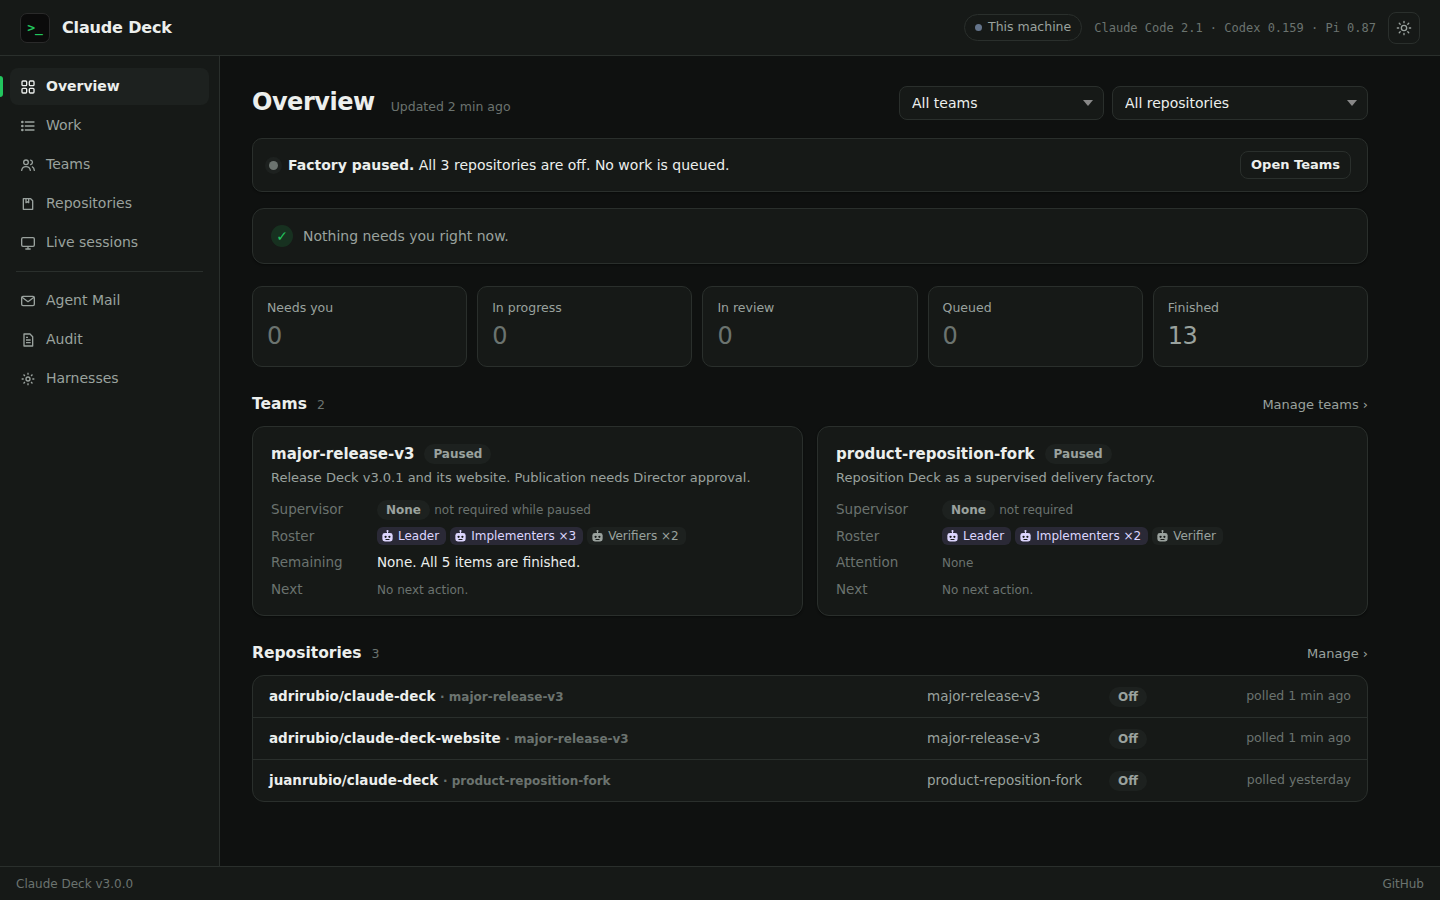
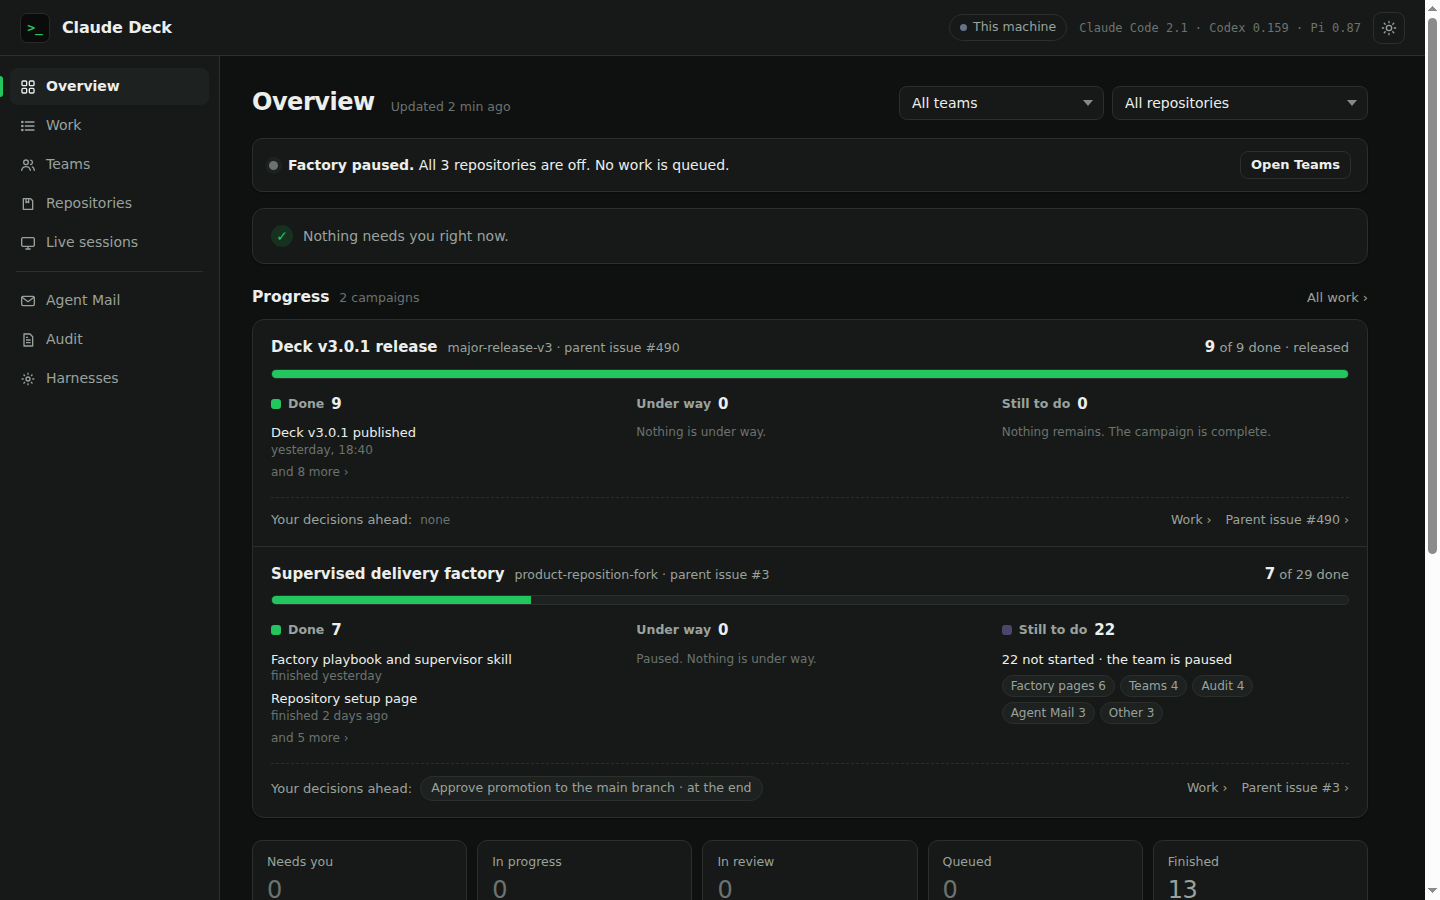
docs(design): add the Overview progress card to the v3.1 design reference
The Director approved the card on 2026-10-12: for each campaign, what has
happened, what is happening and what still needs to happen, in plain words.
Regenerated the three Overview screens and added a close-up.

diff --git a/docs/plans/2026-10-11-v3.1-director-ui/director-ui-mockup.html b/docs/plans/2026-10-11-v3.1-director-ui/director-ui-mockup.html
@@ -71,6 +71,38 @@
   .btn.sm { height:28px; padding:0 10px; font-size:13px; }
 
   /* needs you */
+
+  /* Progress card (proposal 2026-10-12): what has happened, what is happening, what still needs to happen */
+  .progress { background:var(--panel); border:1px solid var(--line); border-radius:12px; box-shadow:var(--shadow); margin-bottom:22px; overflow:hidden; }
+  .camp { padding:16px 18px; }
+  .camp + .camp { border-top:1px solid var(--line); }
+  .camp .ch { display:flex; align-items:baseline; gap:10px; flex-wrap:wrap; }
+  .camp .ch b { font-size:15px; }
+  .camp .ch .team { all:unset; color:var(--muted); font-size:12.5px; }
+  .camp .ch .frac { margin-left:auto; font-size:13px; color:var(--muted); }
+  .camp .ch .frac strong { color:var(--ink); font-size:15px; }
+  .bar { display:flex; height:10px; border-radius:6px; overflow:hidden; background:var(--raised); margin:10px 0 14px; border:1px solid var(--line); }
+  .bar span { display:block; height:100%; }
+  .bar .d { background:var(--green); }
+  .bar .u { background:var(--violet); }
+  .bar .q { background:color-mix(in srgb, var(--violet) 35%, var(--raised)); }
+  .cols3 { display:grid; grid-template-columns:1fr 1fr 1fr; gap:18px; }
+  .cols3 h3 { margin:0 0 6px; font-size:12.5px; color:var(--muted); font-weight:600; display:flex; align-items:center; gap:7px; text-transform:none; }
+  .cols3 h3 .n { color:var(--ink); font-size:15px; font-weight:700; }
+  .cols3 .sw { width:10px; height:10px; border-radius:3px; display:inline-block; }
+  .cols3 ul { list-style:none; margin:0; padding:0; font-size:13px; }
+  .cols3 li { padding:3px 0; line-height:1.35; }
+  .cols3 li .sub { display:block; font-size:12px; }
+  .cols3 .areas { display:flex; flex-wrap:wrap; gap:5px; margin-top:4px; }
+  .cols3 .area { font-size:12px; padding:1px 8px; border-radius:999px; border:1px solid var(--line); color:var(--muted); background:var(--raised); }
+  .decide { display:flex; align-items:center; gap:8px; flex-wrap:wrap; margin-top:14px; padding-top:12px; border-top:1px dashed var(--line); font-size:13px; }
+  .decide .lbl { color:var(--muted); }
+  .decide .step { display:inline-flex; align-items:center; gap:6px; padding:2px 10px; border-radius:999px; background:var(--amber-soft); color:var(--amber-ink); font-weight:600; font-size:12.5px; }
+  .decide .step.later { background:var(--raised); color:var(--muted); font-weight:500; border:1px solid var(--line); }
+  .decide .links { margin-left:auto; display:flex; gap:14px; }
+  .decide .links a { color:var(--muted); text-decoration:none; font-size:12.5px; }
+  .decide .links a:hover { color:var(--ink); text-decoration:underline; }
+  @media (max-width: 900px) { .cols3 { grid-template-columns:1fr; } }
   .needs { border-radius:12px; background:var(--panel); border:1px solid var(--line); box-shadow:var(--shadow); overflow:hidden; margin-bottom:22px; }
   .needs.has { border-color:color-mix(in srgb, var(--amber) 55%, var(--line)); }
   .needs .nh { display:flex; align-items:center; gap:10px; padding:14px 18px; border-bottom:1px solid var(--line); }
@@ -370,6 +402,64 @@
     </div>
     <div class="needs" data-idle hidden>
       <div class="empty"><span class="ok">✓</span>Nothing needs you right now.</div>
+    </div>
+
+
+    <!-- Progress (proposal 2026-10-12): one row per campaign -->
+    <div class="sec"><h2>Progress</h2><span class="meta">2 campaigns</span><a href="#">All work ›</a></div>
+    <div class="progress">
+      <div class="camp">
+        <div class="ch"><b>Deck v3.0.1 release</b><span class="team">major-release-v3 · parent issue #490</span>
+          <span class="frac" data-busy><strong>6</strong> of 9 done</span><span class="frac" data-idle hidden><strong>9</strong> of 9 done · released</span></div>
+        <div class="bar" data-busy aria-label="6 done, 2 under way, 1 queued, 0 not started"><span class="d" style="width:66.7%"></span><span class="u" style="width:22.2%"></span><span class="q" style="width:11.1%"></span></div>
+        <div class="bar" data-idle hidden aria-label="9 done"><span class="d" style="width:100%"></span></div>
+        <div class="cols3" data-busy>
+          <div><h3><span class="sw" style="background:var(--green)"></span>Done <span class="n">6</span></h3>
+            <ul><li>Release notes and version numbers<span class="sub">finished 25 min ago</span></li>
+                <li>Website pages for v3.0.1<span class="sub">finished 1 h ago</span></li>
+                <li class="sub">and 4 more ›</li></ul></div>
+          <div><h3><span class="sw" style="background:var(--violet)"></span>Under way <span class="n">2</span></h3>
+            <ul><li>Release files and checksums<span class="sub">R2 is building it · started 40 min ago</span></li>
+                <li>Public documentation<span class="sub">V1 is reviewing it</span></li></ul></div>
+          <div><h3><span class="sw" style="background:color-mix(in srgb, var(--violet) 35%, var(--raised))"></span>Still to do <span class="n">1</span></h3>
+            <ul><li>Announce the release<span class="sub">queued · starts when a member is free</span></li></ul></div>
+        </div>
+        <div class="cols3" data-idle hidden>
+          <div><h3><span class="sw" style="background:var(--green)"></span>Done <span class="n">9</span></h3>
+            <ul><li>Deck v3.0.1 published<span class="sub">yesterday, 18:40</span></li><li class="sub">and 8 more ›</li></ul></div>
+          <div><h3>Under way <span class="n">0</span></h3><ul><li class="sub">Nothing is under way.</li></ul></div>
+          <div><h3>Still to do <span class="n">0</span></h3><ul><li class="sub">Nothing remains. The campaign is complete.</li></ul></div>
+        </div>
+        <div class="decide" data-busy><span class="lbl">Your decisions ahead:</span>
+          <span class="step"><svg class="ic" style="width:12px;height:12px"><use href="#i-human"/></svg>Approve publication · now</span>
+          <span class="links"><a href="#">Work ›</a><a href="#">Parent issue #490 ›</a></span></div>
+        <div class="decide" data-idle hidden><span class="lbl">Your decisions ahead:</span><span class="sub">none</span>
+          <span class="links"><a href="#">Work ›</a><a href="#">Parent issue #490 ›</a></span></div>
+      </div>
+
+      <div class="camp">
+        <div class="ch"><b>Supervised delivery factory</b><span class="team">product-reposition-fork · parent issue #3</span>
+          <span class="frac"><strong>7</strong> of 29 done</span></div>
+        <div class="bar" data-busy aria-label="7 done, 2 under way, 1 queued, 19 not started"><span class="d" style="width:24.1%"></span><span class="u" style="width:6.9%"></span><span class="q" style="width:3.4%"></span></div>
+        <div class="bar" data-idle hidden aria-label="7 done, 22 not started"><span class="d" style="width:24.1%"></span></div>
+        <div class="cols3">
+          <div><h3><span class="sw" style="background:var(--green)"></span>Done <span class="n">7</span></h3>
+            <ul><li>Factory playbook and supervisor skill<span class="sub">finished yesterday</span></li>
+                <li>Repository setup page<span class="sub">finished 2 days ago</span></li>
+                <li class="sub">and 5 more ›</li></ul></div>
+          <div data-busy><h3><span class="sw" style="background:var(--violet)"></span>Under way <span class="n">2</span></h3>
+            <ul><li>Supervisor status on the team card<span class="sub">B3 is waiting: checks cannot be read</span></li>
+                <li>Overview layout for Directors<span class="sub">waiting for you: review the design</span></li></ul></div>
+          <div data-idle hidden><h3>Under way <span class="n">0</span></h3><ul><li class="sub">Paused. Nothing is under way.</li></ul></div>
+          <div><h3><span class="sw" style="background:color-mix(in srgb, var(--violet) 35%, var(--raised))"></span>Still to do <span class="n" data-busy>20</span><span class="n" data-idle hidden>22</span></h3>
+            <ul><li data-busy>1 queued · 19 not started yet</li><li data-idle hidden>22 not started · the team is paused</li></ul>
+            <div class="areas"><span class="area">Factory pages 6</span><span class="area">Teams 4</span><span class="area">Audit 4</span><span class="area">Agent Mail 3</span><span class="area">Other 3</span></div></div>
+        </div>
+        <div class="decide"><span class="lbl">Your decisions ahead:</span>
+          <span class="step" data-busy><svg class="ic" style="width:12px;height:12px"><use href="#i-human"/></svg>Review the Overview design · now</span>
+          <span class="step later">Approve promotion to the main branch · at the end</span>
+          <span class="links"><a href="#">Work ›</a><a href="#">Parent issue #3 ›</a></span></div>
+      </div>
     </div>
 
     <div class="tiles">

diff --git a/docs/plans/2026-10-11-v3.1-director-ui/README.md b/docs/plans/2026-10-11-v3.1-director-ui/README.md
@@ -32,7 +32,7 @@ Plain words first; technical details collapsed. Non-agent code does what a rule 
 
 | Screen | Screenshots | Issues |
 |---|---|---|
-| Overview | [Needs you](screens/01-overview-needs-you.png) · [Idle and paused](screens/02-overview-idle.png) · [Light theme](screens/21-overview-light.png) | #506 · #507 · #508 · #509 · #510 · #513 |
+| Overview | [Needs you](screens/01-overview-needs-you.png) · [Idle and paused](screens/02-overview-idle.png) · [Light theme](screens/21-overview-light.png) · [Progress card](screens/22-overview-progress.png) | #506 · #507 · #508 · #509 · #510 · #513 · #548 |
 | Work | [List](screens/03-work-list.png) · [Merged item](screens/04-work-item-merged.png) · [Item that needs attention](screens/05-work-item-attention.png) | #507 · #511 · #533 · #534 |
 | Teams | [Team page](screens/06-teams.png) | #542 · #543 · #544 |
 | Repositories | [List](screens/07-repositories.png) · [Repository page](screens/08-repository-page.png) · [Add a repository](screens/09-add-repository.png) | #536 · #537 |
@@ -41,6 +41,19 @@ Plain words first; technical details collapsed. Non-agent code does what a rule 
 | Agent Mail | [Conversations](screens/14-agent-mail.png) · [Members](screens/15-agent-mail-members.png) | #527 · #528 · #529 · #530 · #531 |
 | Audit | [Unlocked](screens/16-audit.png) · [Locked](screens/17-audit-locked.png) | #515 · #516 · #517 · #518 · #519 · #520 · #521 |
 | Harnesses | [List](screens/18-harnesses.png) · [Harness page](screens/19-harness-page.png) · [Settings page](screens/20-harness-settings-page.png) | #522 · #523 · #524 · #525 · #526 · #545 |
+
+### Progress card (added 2026-10-12)
+
+The Overview answers three questions for each campaign: what has happened, what is happening, and what still needs to happen. One row per campaign shows:
+
+- **Done:** the count and the latest finished items in plain titles. "Done" means merged into the campaign's branch. It does not mean closed on GitHub.
+- **Under way:** each active item and its owner in plain words, for example "R2 is building it" or "waiting for you".
+- **Still to do:** queued items, and items not started yet, grouped by area. They come from the campaign's milestone or parent issue.
+- **Your decisions ahead:** the current Director actions, and the retained decisions that come later (for example promotion and publication).
+
+A bar shows done, under way, queued and not started. Issues: #548 (data), #508 (Overview card), #542 (team page).
+
+![Overview — Progress card](screens/22-overview-progress.png)
 
 Issues without a screen: #535 (revision left active), #538 (polling after permanent errors), #546 (404 for no active project).
 
